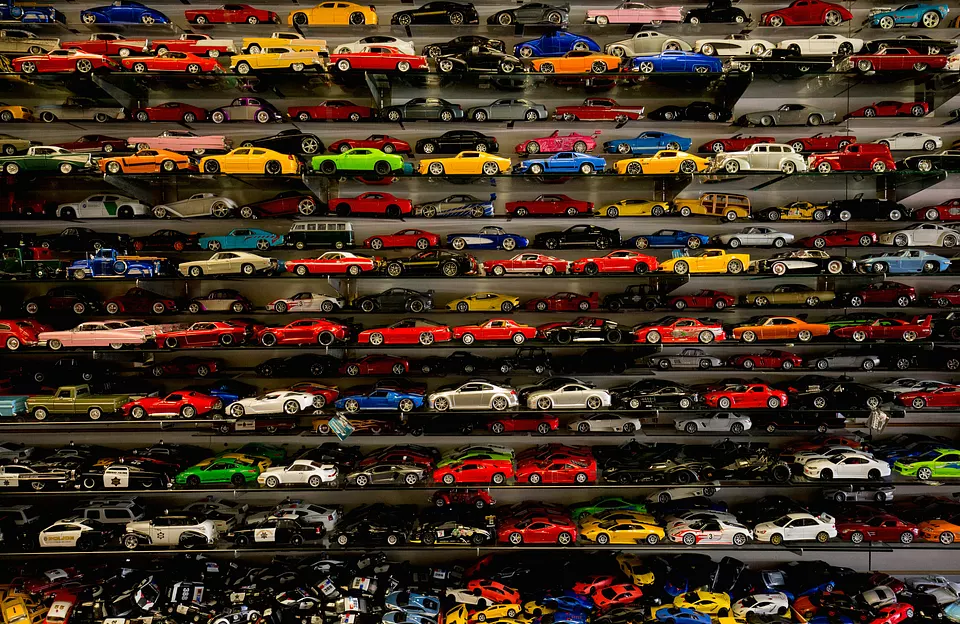
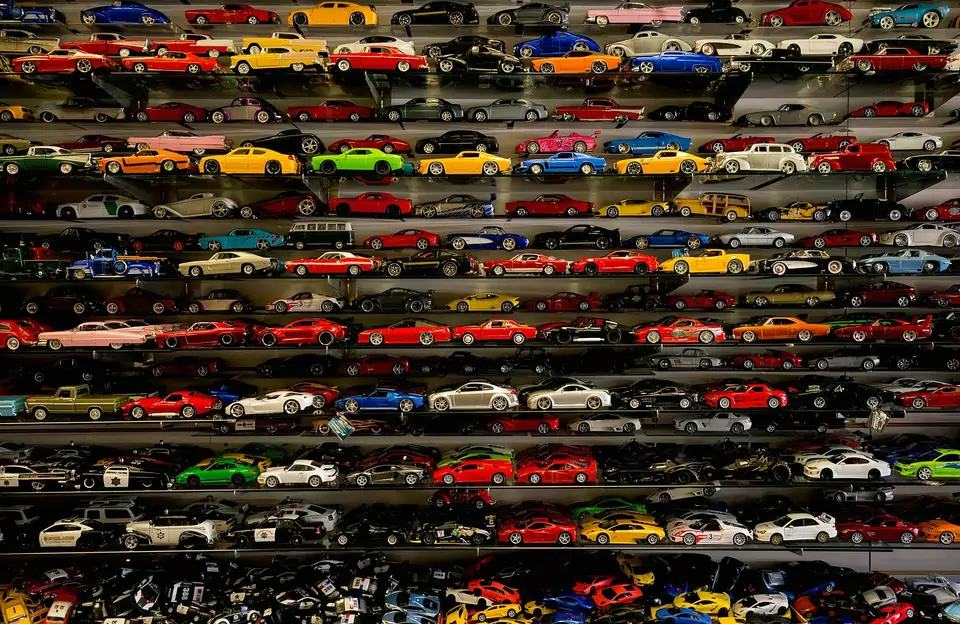
Home hero: add 768w variant + recompress webp to cut mobile LCP image
The Lighthouse mobile device (~721 device px @ 100vw) had to download the
960w WebP (167 KB) as the smallest candidate above its need. Adding a 768w
variant (95 KB) lets the browser pick a closer-matched, ~43% smaller LCP
image. Also recompressed 960w/1440w WebP (q75) for higher-DPR phones.

- Add collection_shelf-768w.{webp,jpg}
- Recompress collection_shelf-{960w,1440w}.webp
- Sync hero_widths to [480,768,960,1440] in the view and lcp_preload helper

Dimensions/aspect-ratio, fetchpriority/eager/decoding, and sizes unchanged
so CLS stays 0.

diff --git a/app/helpers/application_helper.rb b/app/helpers/application_helper.rb
@@ -80,7 +80,7 @@ module ApplicationHelper
   # responsive, luego WebP, y skip si no hay nada.
   def lcp_preload_home_image
     base = 'collection_shelf'
-    widths = [480, 960, 1440]
+    widths = [480, 768, 960, 1440]
 
     %w[avif webp].each do |ext|
       mime = ext == 'avif' ? 'image/avif' : 'image/webp'